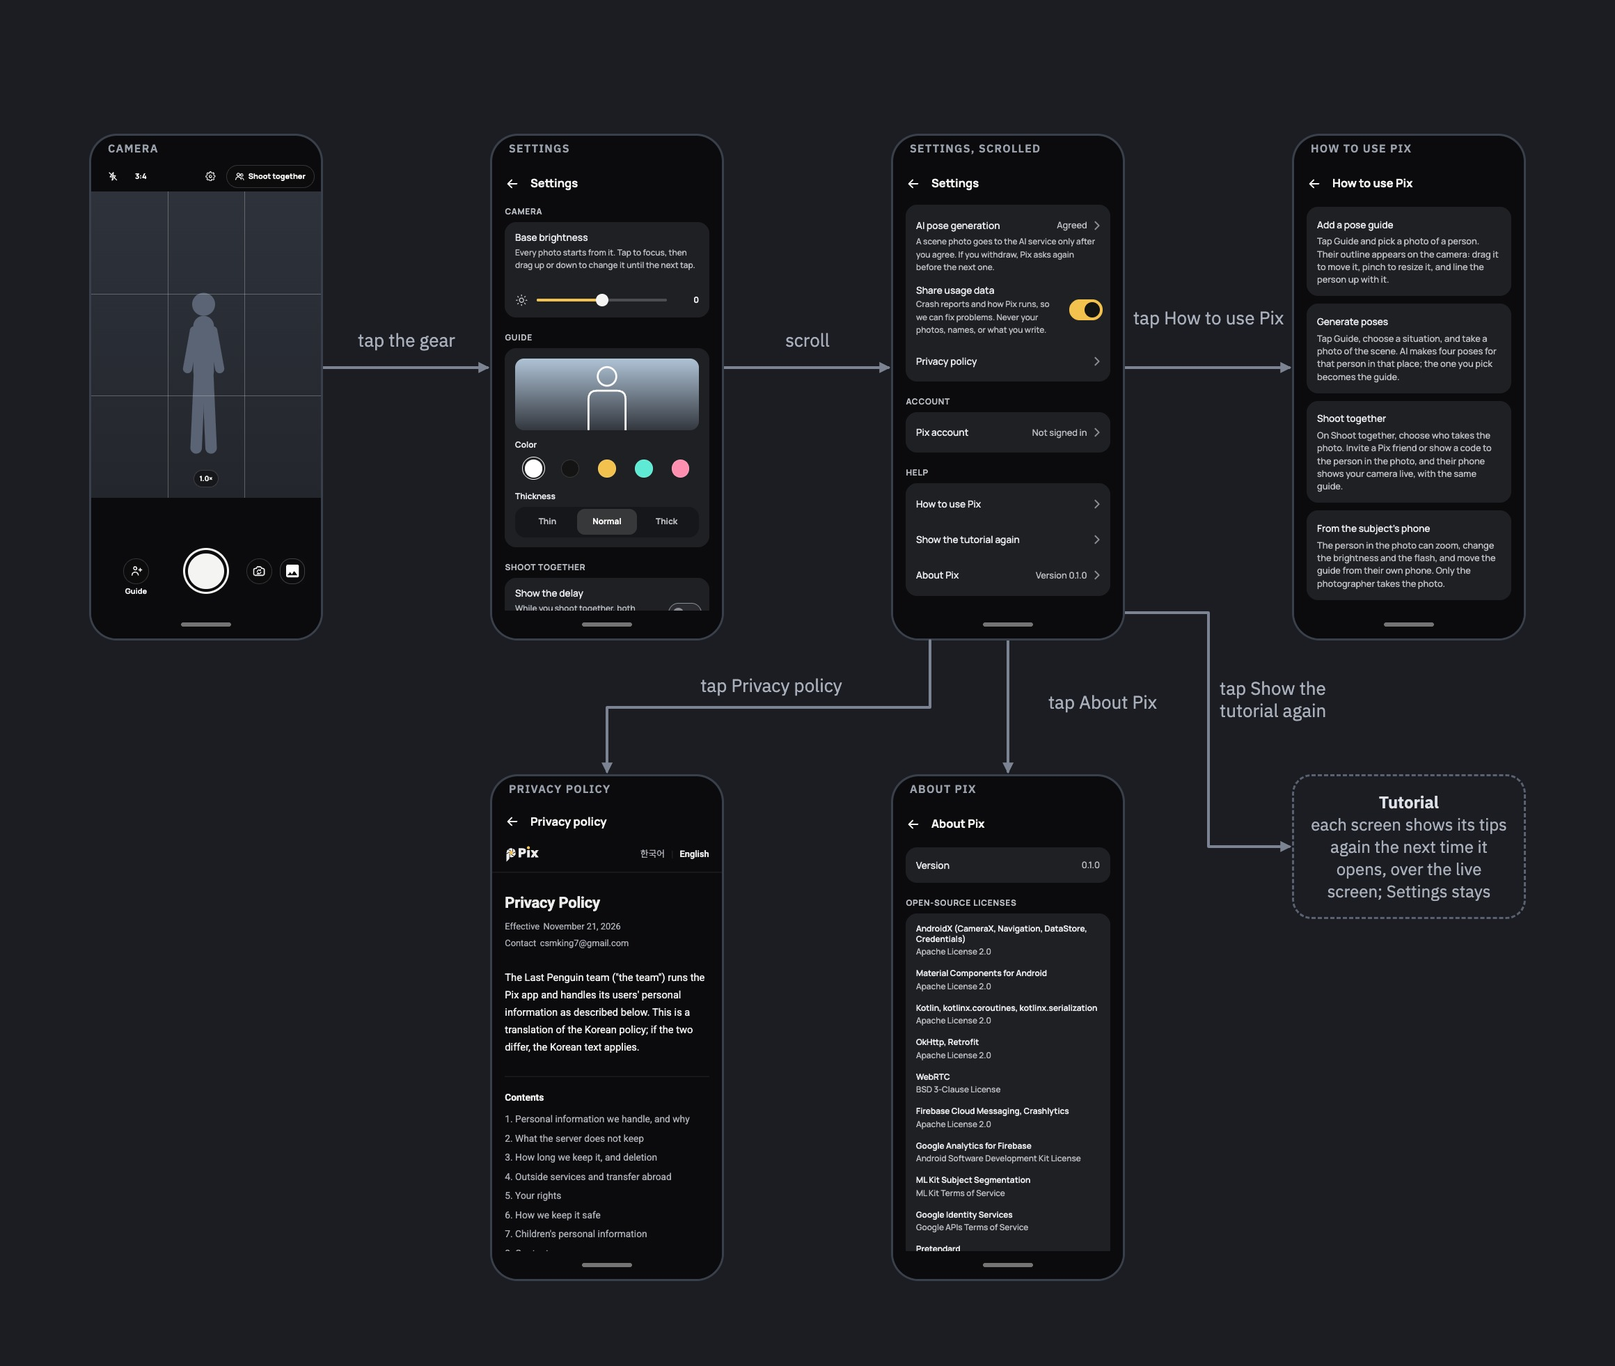
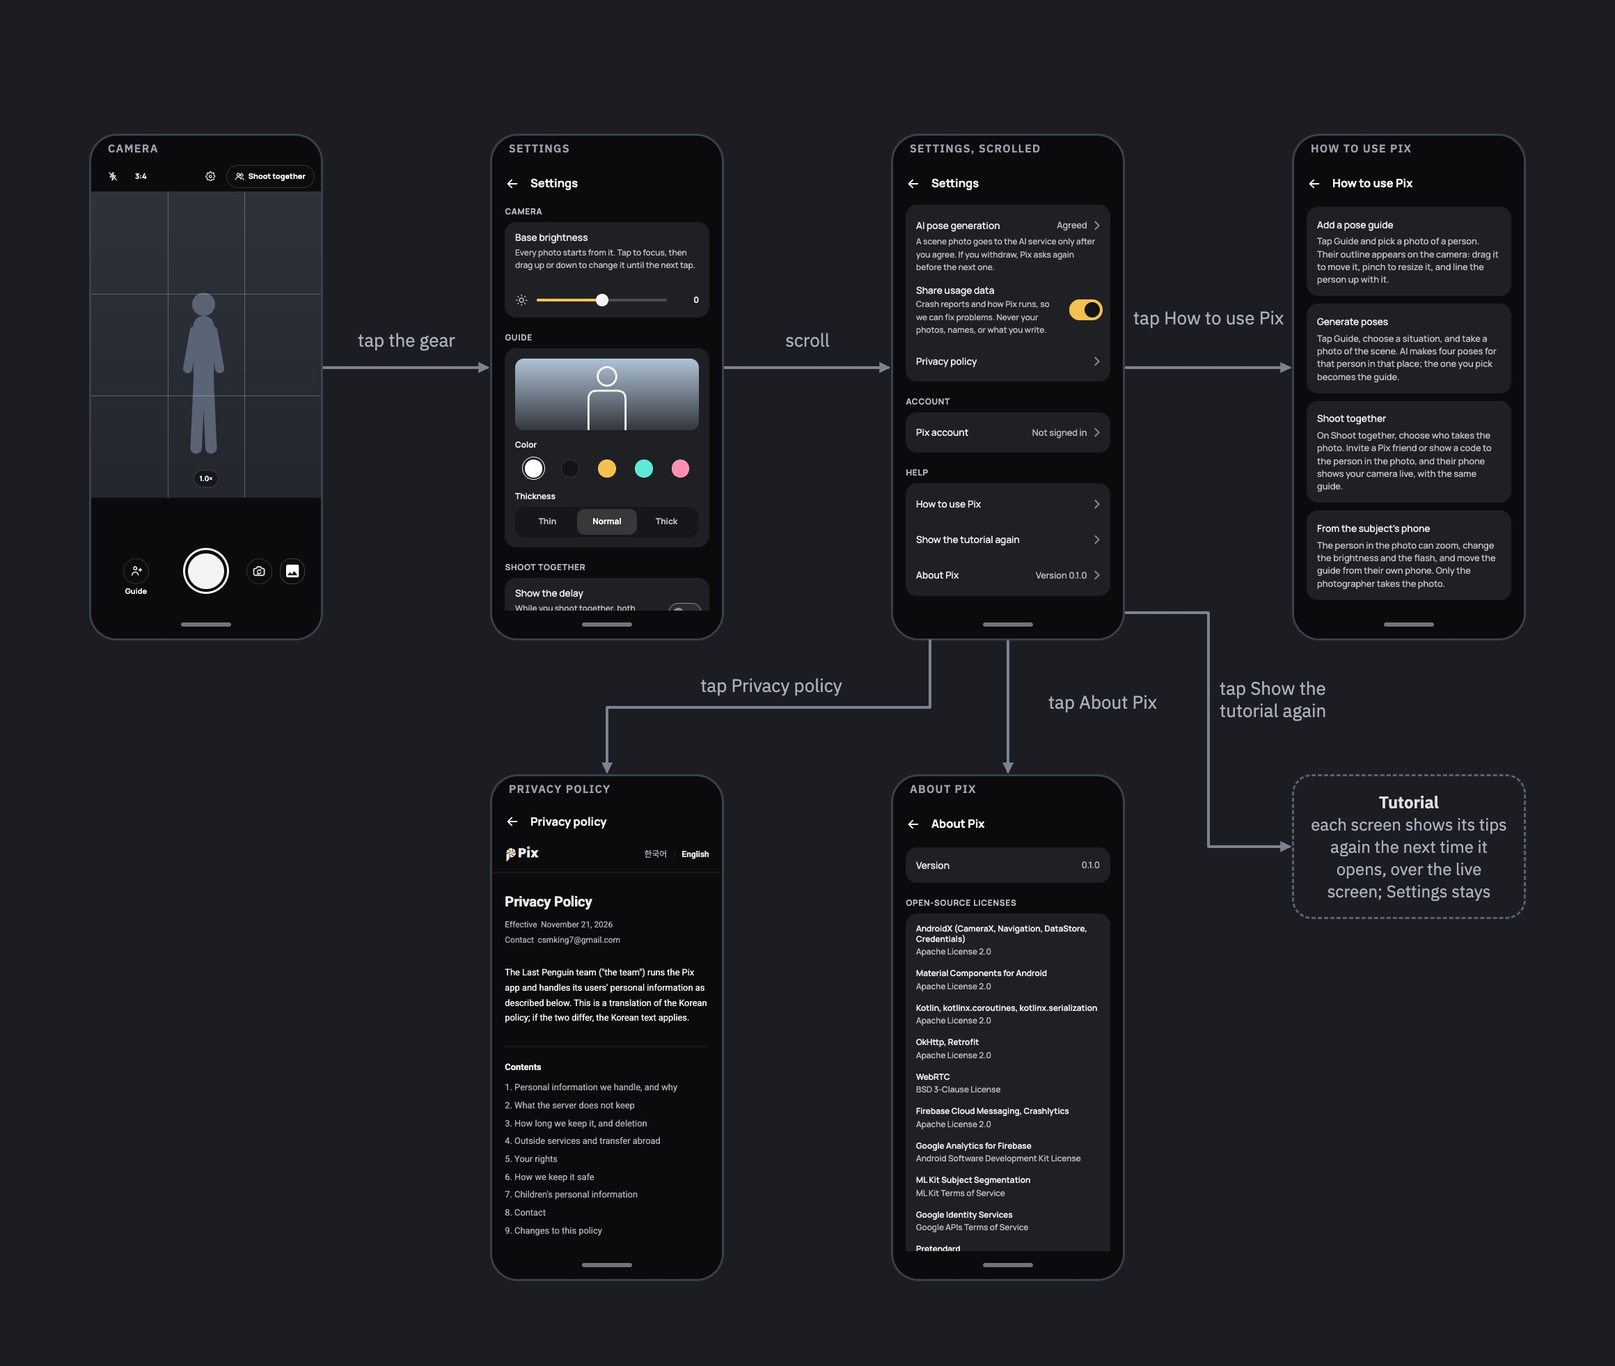
feat: make the policy page's text smaller and let its tables scroll sideways
Every text on the privacy policy page is a step smaller: the body is
15 px, and 14 px on a phone. Tables stay tables at any width. Each
column keeps a minimum width, and a table wider than the screen scrolls
sideways in its own box, so the phone-only grid and the cell labels
for it are gone.

Changed region(s): [[0.3103, 0.6529, 0.4345, 0.9016]]

diff --git a/wiki/design/wireframes/flow7_settings.dc.html b/wiki/design/wireframes/flow7_settings.dc.html
@@ -13,26 +13,28 @@
 <style>
 body{margin:0;background:#1B1D22}
 a{color:#8FA7D6;text-decoration:none}a:hover{color:#AFC1E4}
-.pp-web{font-family:'Roboto','Noto Sans KR',sans-serif;font-size:16px;line-height:1.7;color:#ECECEC;background:#0B0B0D;overflow-wrap:anywhere}
+.pp-web{font-family:'Roboto','Noto Sans KR',sans-serif;font-size:14px;line-height:1.7;color:#ECECEC;background:#0B0B0D;overflow-wrap:anywhere}
 .pp-web,.pp-web *{box-sizing:border-box;word-break:normal;overflow-wrap:inherit}
 html[lang="ko"] .pp-web,html[lang="ko"] .pp-web *{word-break:keep-all}
 .pp-bar{display:flex;align-items:center;justify-content:space-between;gap:16px;min-height:56px;padding:0 20px;border-bottom:1px solid #26272B}
 .pp-logo{display:block;height:28px;width:auto;color:#ECECEC}
-.pp-lang{font-size:14px;white-space:nowrap}
+.pp-lang{font-size:13px;white-space:nowrap}
 .pp-lang span{color:#A9ACB2}
 .pp-lang .pp-en,html[lang="ko"] .pp-lang .pp-ko{color:#ECECEC;font-weight:600}
 html[lang="ko"] .pp-lang .pp-en{color:#A9ACB2;font-weight:400}
 .pp-lang span+span::before{content:"|";margin:0 10px;color:#26272B;font-weight:400}
 .pp-main{padding:32px 20px 64px}
-.pp-web h1{margin:0 0 10px;font-size:24px;line-height:1.3;letter-spacing:-0.01em;font-weight:700}
-.pp-meta{display:flex;flex-wrap:wrap;gap:2px 20px;margin:0 0 28px;color:#A9ACB2;font-size:14px}
+.pp-web h1{margin:0 0 10px;font-size:22px;line-height:1.3;letter-spacing:-0.01em;font-weight:700}
+.pp-meta{display:flex;flex-wrap:wrap;gap:2px 20px;margin:0 0 28px;color:#A9ACB2;font-size:13px}
 .pp-meta div{display:flex;gap:6px}
 .pp-meta dd{margin:0}
 .pp-lead{margin:0 0 32px}
 .pp-web code{padding:1px 5px;border-radius:4px;background:#17181B;font-family:'Roboto Mono',monospace;font-size:0.88em}
 .pp-toc{padding:20px 0;border-top:1px solid #26272B;border-bottom:1px solid #26272B}
-.pp-toc h2{margin:0 0 6px;font-size:15px;line-height:1.7;font-weight:700}
-.pp-toc ol{margin:0;padding:0;list-style:none;color:#A9ACB2;font-size:15px;line-height:2}
+.pp-toc h2{margin:0 0 6px;font-size:14px;line-height:1.7;font-weight:700}
+.pp-toc ol{margin:0;padding:0;list-style:none;color:#A9ACB2;font-size:14px;line-height:2}
+.pp-sec{padding-top:40px}
+.pp-sec h2{margin:0 0 12px;font-size:16px;line-height:1.45;font-weight:700}
 </style>
 </helmet>
 <div style="position: relative; width: 1160px; height: 981px; background: #1B1D22; color: #DDE0E6; font-family: 'IBM Plex Sans', 'Helvetica Neue', system-ui, sans-serif">
@@ -239,6 +241,9 @@ html[lang="ko"] .pp-lang .pp-en{color:#A9ACB2;font-weight:400}
 <li>9. Changes to this policy</li>
 </ol>
 </div>
+<section class="pp-sec">
+<h2>1. Personal information we handle, and why</h2>
+</section>
 </div>
 </div>
 </div>

diff --git a/server/src/pix_server/privacy/router.py b/server/src/pix_server/privacy/router.py
@@ -6,9 +6,9 @@ pages copy (`tests/test_privacy.py`).
 
 A page lays the text out as a plain document: the Pix logo (`pix-logo.svg`, a copy of `branding/pix-horizontal.svg`)
 and the language switch, the title with the effective date and the contact, the opening paragraph, the contents, and
-one part per numbered section, set in the text's own colors with thin rules. On a narrow screen a table stays a table,
-except one wider than three columns, whose rows become blocks of labeled cells two to a line. The page needs no JavaScript,
-which the app's WebView keeps off, and loads nothing from elsewhere.
+one part per numbered section, set in the text's own colors with thin rules. A table keeps its columns' widths and, on
+a narrow screen, scrolls sideways in its own box. The page needs no JavaScript, which the app's WebView keeps off, and
+loads nothing from elsewhere.
 
 Both pages are rendered once, when the module is imported, so a file that cannot be read, or a policy laid out in
 another way, fails the tests and the image's build instead of a request. They name nobody and read nothing from the
@@ -46,7 +46,7 @@ PAGE = Template("""<!doctype html>
 }
 * { box-sizing: border-box; }
 html { -webkit-text-size-adjust: 100%; }
-body { margin: 0; background: var(--ground); color: var(--text); font-size: 16px; line-height: 1.7;
+body { margin: 0; background: var(--ground); color: var(--text); font-size: 15px; line-height: 1.7;
   font-family: system-ui, -apple-system, "Segoe UI", Roboto, "Apple SD Gothic Neo", "Noto Sans KR", sans-serif;
   overflow-wrap: anywhere; }
 html[lang="ko"] body { word-break: keep-all; }
@@ -55,53 +55,44 @@ a { color: inherit; text-underline-offset: 3px; }
 .top-in, main, .foot-in { max-width: 720px; margin: 0 auto; padding-left: 24px; padding-right: 24px; }
 .top-in { display: flex; align-items: center; justify-content: space-between; gap: 16px; min-height: 56px; }
 .logo { display: block; height: 28px; width: auto; color: var(--text); }
-.lang { font-size: 14px; white-space: nowrap; }
+.lang { font-size: 13px; white-space: nowrap; }
 .lang a { color: var(--muted); text-decoration: none; }
 .lang a:hover { text-decoration: underline; }
 .lang span { font-weight: 600; }
 .lang > * + *::before { content: "|"; margin: 0 10px; color: var(--line); font-weight: 400; }
 main { padding-top: 48px; padding-bottom: 64px; }
-h1 { margin: 0 0 10px; font-size: 28px; line-height: 1.3; letter-spacing: -0.01em; }
-.meta { display: flex; flex-wrap: wrap; gap: 2px 20px; margin: 0 0 28px; color: var(--muted); font-size: 14px; }
+h1 { margin: 0 0 10px; font-size: 25px; line-height: 1.3; letter-spacing: -0.01em; }
+.meta { display: flex; flex-wrap: wrap; gap: 2px 20px; margin: 0 0 28px; color: var(--muted); font-size: 13px; }
 .meta div { display: flex; gap: 6px; }
 .meta dd { margin: 0; }
 .lead { margin: 0 0 32px; }
 .toc { padding: 20px 0; border-top: 1px solid var(--line); border-bottom: 1px solid var(--line); }
-.toc h2 { margin: 0 0 6px; font-size: 15px; }
-.toc ol { margin: 0; padding: 0; list-style: none; color: var(--muted); font-size: 15px; line-height: 2; }
+.toc h2 { margin: 0 0 6px; font-size: 14px; }
+.toc ol { margin: 0; padding: 0; list-style: none; color: var(--muted); font-size: 14px; line-height: 2; }
 .toc a { text-decoration: none; }
 .toc a:hover { color: var(--text); text-decoration: underline; }
 section { padding-top: 40px; }
-section h2 { margin: 0 0 12px; font-size: 19px; line-height: 1.45; }
+section h2 { margin: 0 0 12px; font-size: 17px; line-height: 1.45; }
 section p, section ul { margin: 0 0 14px; }
 section ul { padding-left: 20px; }
 section li { margin: 6px 0; }
 code { padding: 1px 5px; border-radius: 4px; background: var(--code);
   font-family: ui-monospace, "SF Mono", Menlo, Consolas, monospace; font-size: 0.88em; }
-.table { margin: 16px 0 20px; }
-table { width: 100%; border-collapse: collapse; font-size: 14.5px; line-height: 1.6; }
-th { padding: 0 16px 10px 0; border-bottom: 1px solid var(--text); font-size: 13.5px; font-weight: 600;
+.table { margin: 16px 0 20px; overflow-x: auto; -webkit-overflow-scrolling: touch; }
+table { width: 100%; border-collapse: collapse; font-size: 13.5px; line-height: 1.6; }
+th { min-width: 9em; padding: 0 16px 10px 0; border-bottom: 1px solid var(--text); font-size: 12.5px; font-weight: 600;
   text-align: left; vertical-align: bottom; }
-td { padding: 12px 16px 12px 0; border-bottom: 1px solid var(--line); vertical-align: top; }
+td { min-width: 9em; padding: 12px 16px 12px 0; border-bottom: 1px solid var(--line); vertical-align: top; }
+th:first-child, td:first-child { min-width: 12em; }
 th:last-child, td:last-child { padding-right: 0; }
 footer { border-top: 1px solid var(--line); color: var(--faint); font-size: 13px; }
 .foot-in { padding-top: 20px; padding-bottom: 32px; }
 @media (max-width: 640px) {
   .top-in, main, .foot-in { padding-left: 20px; padding-right: 20px; }
   main { padding-top: 32px; }
-  h1 { font-size: 24px; }
-  section h2 { font-size: 18px; }
-  table { font-size: 13.5px; line-height: 1.55; }
-  th { padding: 0 10px 8px 0; font-size: 12.5px; }
-  td { padding: 10px 10px 10px 0; }
-  .wide thead { position: absolute; width: 1px; height: 1px; overflow: hidden; clip: rect(0 0 0 0); }
-  .wide table, .wide tbody { display: block; }
-  .wide table { border-top: 1px solid var(--text); }
-  .wide tr { display: grid; grid-template-columns: 1fr 1fr; gap: 8px 16px; padding: 12px 0;
-    border-bottom: 1px solid var(--line); }
-  .wide td { display: block; padding: 0; border: 0; }
-  .wide td:first-child { grid-column: 1 / -1; font-weight: 600; }
-  .wide td + td::before { content: attr(data-label); display: block; color: var(--faint); font-size: 12.5px; }
+  body { font-size: 14px; }
+  h1 { font-size: 22px; }
+  section h2 { font-size: 16px; }
 }
 @media print {
   .lang, .toc { display: none; }
@@ -139,17 +130,12 @@ LANGUAGES = {
 
 SECTION_HEADING = re.compile(r"(\d+)\.\s+(.+)")
 
-# The most columns a table keeps as a table on a phone. A wider one (the outside services) shows each row as its first
-# cell over a two-column grid of the others, each under its column's name.
-MAX_PHONE_COLUMNS = 3
-
 
 class PolicyLayout(Treeprocessor):
     """Puts the policy's Markdown in the page's parts: what comes before the first section becomes the title block
     (the title, the list as the effective date and the contact, then the paragraph), each `## n. Name` starts a
-    section, the contents link to them, and every table cell carries its column's name, which a narrow screen shows as
-    the cell's label in a wide table. The roles keep the tables tables for a screen reader when CSS lays them out as
-    blocks."""
+    section, the contents link to them, and each table goes in a box of its own, which scrolls sideways when the table
+    is wider than the screen."""
 
     def __init__(self, md: markdown.Markdown, title: str, contents: str) -> None:
         super().__init__(md)
@@ -176,9 +162,7 @@ class PolicyLayout(Treeprocessor):
                 else:
                     leads.append(lead(block))
             elif block.tag == "table":
-                labeled(block)
-                wide = len(list(block.iter("th"))) > MAX_PHONE_COLUMNS
-                ET.SubElement(section, "div", {"class": "table wide" if wide else "table"}).append(block)
+                ET.SubElement(section, "div", {"class": "table"}).append(block)
             else:
                 section.append(block)
         if section is None:
@@ -215,20 +199,6 @@ def meta(items: ET.Element) -> ET.Element:
         ET.SubElement(row, "dt").text = term
         ET.SubElement(row, "dd").text = value
     return terms
-
-
-def labeled(table: ET.Element) -> None:
-    columns = ["".join(cell.itertext()).strip() for cell in table.iter("th")]
-    for part, role in (("thead", "rowgroup"), ("tbody", "rowgroup")):
-        for group in table.findall(part):
-            group.set("role", role)
-    for row in table.iter("tr"):
-        row.set("role", "row")
-        for cell in row.findall("th"):
-            cell.set("role", "columnheader")
-        for column, cell in zip(columns, row.findall("td"), strict=False):
-            cell.set("role", "cell")
-            cell.set("data-label", column)
 
 
 class PolicyLayoutExtension(Extension):

diff --git a/server/tests/test_privacy.py b/server/tests/test_privacy.py
@@ -4,8 +4,8 @@
 Partitions:
 - language: none (Korean, the one that applies); `ko`; `en`; another one (404)
 - what a page holds: the policy's title as its heading, its tables, the language switch with its own language marked;
-  the contents linking to every numbered section; each table cell labeled with its column, and a table of more than
-  three columns marked to show as blocks on a phone; the logo inline; nothing
+  the contents linking to every numbered section; every table in a box of its own, which scrolls sideways on a
+  phone; the logo inline; nothing
   loaded from elsewhere and no script; no sign-in
 - a policy laid out another way (a section without its number, a line before the sections that is not "Term: value"):
   refused when the pages are made
@@ -52,16 +52,15 @@ def test_privacy_in_english(client):
 
 
 @pytest.mark.parametrize("path", ["/privacy", "/privacy/en"])
-def test_a_page_has_contents_labeled_tables_and_the_logo_and_loads_nothing_else(client, path):
+def test_a_page_has_contents_scrolling_tables_and_the_logo_and_loads_nothing_else(client, path):
     text = page(client, path)
     sections = re.findall(r'<section aria-labelledby="s(\d+)-title" id="s\1">', text)
     assert sections == [str(n) for n in range(1, 10)]
     for number in sections:
         assert f'<a href="#s{number}">{number}. ' in text
         assert f'<h2 id="s{number}-title">{number}. ' in text
-    assert text.count('<div class="table">') == 2 and text.count('<div class="table wide">') == 1
-    cells = re.findall(r"<td( [^>]*)?>", text)
-    assert cells and all('data-label="' in (attributes or "") for attributes in cells)
+    assert text.count('<div class="table">\n<table>') == text.count("<table>") == 3
+    assert ".table { margin: 16px 0 20px; overflow-x: auto;" in text
     assert (
         '<svg xmlns="http://www.w3.org/2000/svg" viewBox="0 -14 533 270" class="logo" role="img" aria-label="Pix">'
         in text

diff --git a/wiki/Design-Documentation.md b/wiki/Design-Documentation.md
@@ -3166,7 +3166,7 @@ erDiagram
 
 - Before an account is made, the agreement page (`SignUpAgreementFragment`) asks for three required consents, each with its own box: being 14 or older, the collection and use of personal information, and its transfer abroad to AWS (Australia) and Google (United States) (FR-5.19). Each consent to collection or transfer lists the items, the purpose, how long they are kept, and the right to refuse, as Korea's Personal Information Protection Act asks. *Agree and continue* waits for all three. As *Sign up*'s first page, it then opens the form; as *Sign up with Google*, it makes the account. The app keeps no record of the agreement; the account exists only with it.
 - The privacy policy is one text in two languages, `server/src/pix_server/privacy/policy.ko.md` and `policy.en.md`. The server renders both once at start and serves them at `/privacy` (Korean) and `/privacy/en`, the address the store links to; Pix shows the same page (2.1). The wiki's *Privacy Policy* pages copy them, and a test keeps the copies the same.
-- The page lays the text out as a document: the Pix logo and a language switch, the title with the effective date and the contact, the contents, and one part per numbered section. On a narrow screen, a table of up to three columns stays a table; a wider one shows each row as its first cell over the others, two to a line, each under its column's name. The page has no script and loads nothing from elsewhere, so the app's WebView keeps JavaScript off. The renderer refuses a policy laid out otherwise: sections as `## n. Name`, and `Term: value` lines before them.
+- The page lays the text out as a document: the Pix logo and a language switch, the title with the effective date and the contact, the contents, and one part per numbered section. A table keeps its columns' widths and, on a narrow screen, scrolls sideways in its own box. The page has no script and loads nothing from elsewhere, so the app's WebView keeps JavaScript off. The renderer refuses a policy laid out otherwise: sections as `## n. Name`, and `Term: value` lines before them.
 - The server never logs request bodies, images, the image API's response bodies, passwords, or tokens. Nor does it log descriptions, suggested poses, or variations, which describe the person in the photo.
 - A scene photo stays in memory until the response. nginx and the app refuse a request over 1 MiB before reading it, so no upload reaches the disk.
 - Each description and pose also goes, without the photo, to the description filter's decision model, TypeSafe's Jev on OpenRouter (2.6.3). A refusal logs only the question and its probability. Each `POST /poses` scene goes to the same model for the person check, which logs only its probability.

diff --git a/wiki/Requirements-and-Specifications.md b/wiki/Requirements-and-Specifications.md
@@ -888,7 +888,7 @@ These screens follow from the requirements but are not in the wireframe yet. Eac
 | **How to use Pix** | Four cards: *Add a pose guide*, *Generate poses*, *Shoot together*, *From the subject's phone*. | Back → Settings. | — |
 | **Tutorial** | Over the live screen, the first time: the screen dimmed, a dashed ring around each control, and a caption with an arrow. Camera: gear, *Shoot together*, *Guide*, camera switch, shutter. Add a pose guide: the situations, and the whole *Choose from the gallery* and *My library* rows, each caption on its row's ring's top edge at the right, with no arrow ([#210]); My library's sits on the seam between the two rows, and both rings stop around it ([#243]). The guide on Camera: the guide, the mode toggle, *Save guide*, *Hide* with opacity, *Remove* ("Take the guide off", [#204]). Generate poses: the photo, the field, the button. Subject view ("When you're the subject"): *Guide*, zoom, brightness, the mode toggle. At the bottom's middle on every screen: "Tap anywhere to close" ([#204]). | A tap anywhere or Back → the screen; its tips do not return by themselves. | Tips whose screen changes under them close and return next time. |
 | **About Pix** | The version and each library and font with its license. | Back → Settings. | — |
-| **Privacy policy** | Back and *Privacy policy*; the server's page in the screens' language: the Pix logo and a switch to the other language, the title, the effective date and the contact, the contents, and the numbered sections, with tables; a table too wide for the phone shows each row as labeled cells, two to a line. A spinner while it loads. | Back → the screen that opened it: Settings, Sign up's agreement, or Sign up with Google. | Not loaded → "Couldn't load the privacy policy. Check your connection." with *Try again*. |
+| **Privacy policy** | Back and *Privacy policy*; the server's page in the screens' language: the Pix logo and a switch to the other language, the title, the effective date and the contact, the contents, and the numbered sections, with tables, which scroll sideways on a phone. A spinner while it loads. | Back → the screen that opened it: Settings, Sign up's agreement, or Sign up with Google. | Not loaded → "Couldn't load the privacy policy. Check your connection." with *Try again*. |
 | **Camera and Subject view, with the delay** | In a session with *Show the delay* on: "Delay 120 ms" with a green, yellow, or red dot (FR-10.3), or "Delay –" before the first number and while reconnecting. The scene photo's title replaces it (not drawn). | — | — |
 
 ---

diff --git a/server/README.md b/server/README.md
@@ -128,7 +128,7 @@ The account and friend endpoints are in [`src/pix_server/accounts/`](src/pix_ser
 
 The privacy policy is [`src/pix_server/privacy/policy.ko.md`](src/pix_server/privacy/policy.ko.md) and [`policy.en.md`](src/pix_server/privacy/policy.en.md). The server renders both when it starts and serves them at `/privacy`, in Korean, the version that applies, and at `/privacy/en`. The store links to `https://swpp26t10.15-134-147-114.sslip.io/privacy`, and the app shows the same page in *Settings › Privacy* and on its sign-up screens. The wiki's *Privacy Policy* pages copy the two files: change all four together, and `tests/test_privacy.py` fails until the copies match.
 
-The page lays the text out itself (`privacy/router.py`): the logo, the language switch, the contents, and one part per numbered section. On a phone, a table wider than three columns shows each row as labeled cells, two to a line. Keep the files' shape: the title in bold on the first line, a paragraph and `Term: value` lines (the effective date, the contact) before the sections, and each section as `## n. Name`; the server refuses to start otherwise. The logo is `privacy/pix-logo.svg`, a copy of [`branding/pix-horizontal.svg`](../branding/pix-horizontal.svg). To see a change, run the server and open `http://localhost:8000/privacy`.
+The page lays the text out itself (`privacy/router.py`): the logo, the language switch, the contents, and one part per numbered section. On a phone, a table scrolls sideways in its own box. Keep the files' shape: the title in bold on the first line, a paragraph and `Term: value` lines (the effective date, the contact) before the sections, and each section as `## n. Name`; the server refuses to start otherwise. The logo is `privacy/pix-logo.svg`, a copy of [`branding/pix-horizontal.svg`](../branding/pix-horizontal.svg). To see a change, run the server and open `http://localhost:8000/privacy`.
 
 ## Invitations and push
 
